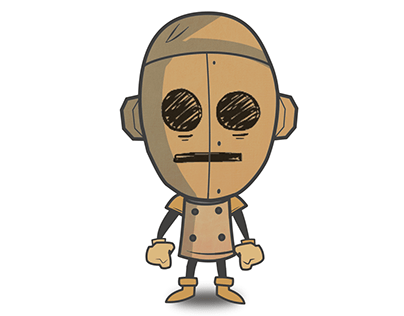
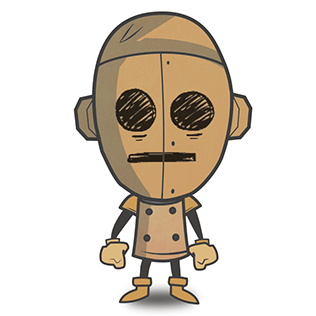
Flip ChatBot response DialogBox

Changed region(s): [[0.2278, 0.0285, 0.7975, 0.9968], [0.5696, 0.4842, 0.6266, 0.5127]]

diff --git a/src/main/java/chatbot/gui/DialogBox.java b/src/main/java/chatbot/gui/DialogBox.java
@@ -1,26 +1,60 @@
 package chatbot.gui;
 
+import javafx.collections.FXCollections;
+import javafx.collections.ObservableList;
+import javafx.geometry.Insets;
 import javafx.geometry.Pos;
 import javafx.scene.control.Label;
 import javafx.scene.image.ImageView;
 import javafx.scene.layout.HBox;
+import javafx.scene.layout.Pane;
+import javafx.scene.Node;
 
 public class DialogBox extends HBox {
     public static final double IMAGE_HEIGHT = 50.0;
     public static final double IMAGE_WIDTH = 50.0;
+    private final Insets IMAGE_PADDING = new Insets(5.0, 0, 5.0, 0);
+    private final Insets Text_Padding = new Insets(5.0, 0, 5.0, 0);
     private Label text;
     private ImageView profileImage;
+    private Pane imageContainer;
 
     public DialogBox(Label label, ImageView image) {
+        super(5);
+
         text = label;
         profileImage = image;
 
         text.setWrapText(true);
+        text.setMaxWidth(Gui.SCROLLPANE_WIDTH * 0.65);
+        text.setPadding(Text_Padding);
         profileImage.setFitHeight(IMAGE_HEIGHT);
         profileImage.setFitWidth(IMAGE_WIDTH);
 
+        imageContainer = new Pane();
+        imageContainer.setPadding(IMAGE_PADDING);
+        imageContainer.getChildren().addAll(profileImage);
+
         this.setAlignment(Pos.TOP_RIGHT);
-        this.getChildren().addAll(this.text, this.profileImage);
+        this.getChildren().addAll(this.text, this.imageContainer);
     }
+
+    private void flip() {
+        this.setAlignment(Pos.TOP_LEFT);
+        ObservableList<Node> tempList = FXCollections.observableArrayList(this.getChildren());
+        FXCollections.reverse(tempList);
+        this.getChildren().setAll(tempList);
+    }
+
+    public static DialogBox getUserDialogBox(Label label, ImageView image) {
+        return new DialogBox(label, image);
+    }
+
+    public static DialogBox getChatBotDialogBox(Label label, ImageView image) {
+        DialogBox tempDB = new DialogBox(label, image);
+        tempDB.flip();
+        return tempDB;
+    }
+
 
 }

diff --git a/src/main/java/chatbot/gui/Gui.java b/src/main/java/chatbot/gui/Gui.java
@@ -76,8 +76,8 @@ public class Gui {
         Label userText = new Label(this.userInput.getText());
         Label chatBotText = new Label(getResponse(this.userInput.getText()));
         this.chatContainer.getChildren().addAll(
-                new DialogBox(userText, new ImageView(userImage)),
-                new DialogBox(chatBotText, new ImageView(chatBotImage))
+                DialogBox.getUserDialogBox(userText, new ImageView(userImage)),
+                DialogBox.getChatBotDialogBox(chatBotText, new ImageView(chatBotImage))
         );
 
         this.userInput.clear();
